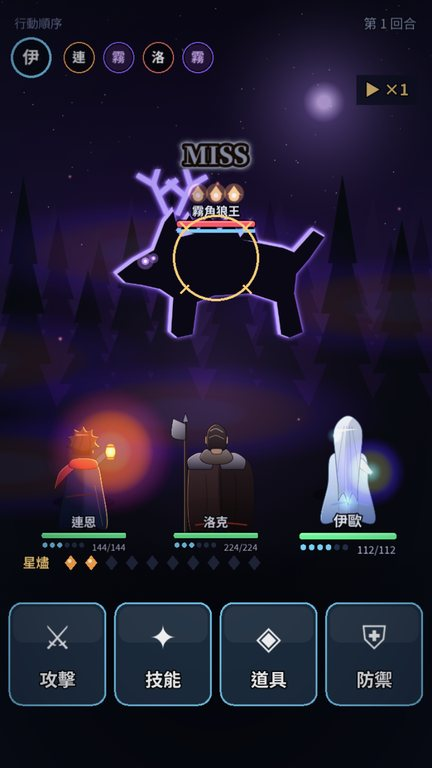
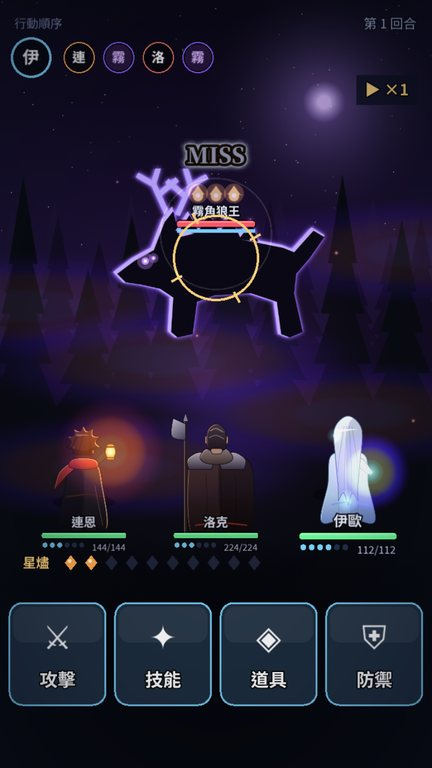
fix(credits): 片尾製作名單註明主要角色立繪由 Jacky 以 AI 繪圖提供；README 戰鬥截圖重拍
Claude-Session: https://claude.ai/code/session_016nUoDCqCDbYg4WJ5BqxbAh

diff --git a/src/game/credits.ts b/src/game/credits.ts
@@ -46,9 +46,11 @@ export function creditsLines(s: GameState): CreditLine[] {
     { text: '企劃・程式・劇本・美術・音樂', kind: 'body' },
     { text: 'Claude（自動開發迴圈）', kind: 'stat' },
     { text: '為 Jacky 打造', kind: 'body' },
+    { text: '主要角色立繪', kind: 'body' },
+    { text: 'Jacky（AI 繪圖）', kind: 'stat' },
     { text: '', kind: 'gap' },
     { text: '所有角色、劇情、卡牌與音樂皆為原創', kind: 'body' },
-    { text: '美術與音效全部由程式即時生成', kind: 'body' },
+    { text: '其餘美術與全部音效由程式即時生成', kind: 'body' },
     { text: '', kind: 'gap' },
     { text: '謝謝你，一路提著燈。', kind: 'head' },
   ];

diff --git a/docs/NEXT.md b/docs/NEXT.md
@@ -7,7 +7,7 @@
 
 0. **【每輪開頭都做】檢查 Jacky 有沒有上傳手繪立繪**：`art-inbox/` 有圖或 GitHub 有標題含「立繪」的 Issue → `pip install "rembg[cpu]" --break-system-packages`、`node scripts/import-art.mjs`（流程見 D-036）；手繪會自動取代同名程式立繪。沒圖就照常往下做。
 1. **配角程式立繪與手繪主角的畫風落差**：主角群是 AI 厚塗，配角是賽璐珞程式繪。可做：配角立繪加一層柔光／顆粒（`ensurePortrait` 畫完後 soft-light 漸層＋邊緣暈影）讓質感接近；或在 FOR_JACKY 已請 Jacky 補 `npc_tia`／`npc_gwen`／`npc_bern`。
-2. **戰鬥背影對齊手繪配色**：手繪連恩是黑外套＋紅圍巾、伊歐白洋裝——`animeSprites.ts` 的連恩外套目前是海軍藍，可改成黑褐；其餘對照 `public/art` 檢查。
+2. **戰鬥背影對齊手繪配色**：連恩外套已改黑（第 7 輪）；其餘大致相符（瑟琳銀甲＋藏青披風、莉歐拉棕背心＋白襯衫、洛克深色＋灰毛領）；README `03-timing.jpg` 已重拍。
 3. **截通關存檔的「新的旅程」確認框**（三顆按鈕：二週目／覆蓋／取消；需要有 `ch5_complete` 的存檔，可用機器人通關後的頁面或在 console 設 flag 後 `session.save()`）。勝利畫面已確認（README 10-victory）。
 4. **README 截圖更新**（標題／戰鬥／羈絆／對話已在第 7 輪重拍）：燼牌已換成對局中段（新紋章，`screenshots/cards.mjs` 寫法：等 `canAct()` 後 `act(playsFor(i)[0])`）；可再加一張片尾統計（`getScene('Dialogue').rollCredits()`；直接呼叫沒有暗幕，要先加全螢幕黑色 rectangle depth 400，或讓機器人從 `?chapter=5` 跑到終幕再截）。燼牌紋章在小卡上偏小（左上點數會擋到），可微調 `drawEmblem` 半徑/位置。`node scripts/promo.mjs http://localhost:4180/ screenshots/promoN <名稱,...>` 可以只截指定幾張。
 5. **燼牌對局手感**：拖曳出牌若在 AI 回合結束 render 時按住會失效（極少見）。（收藏入牌組的勝率影響已模擬：+0～8%，見 D-031，不用調。）
